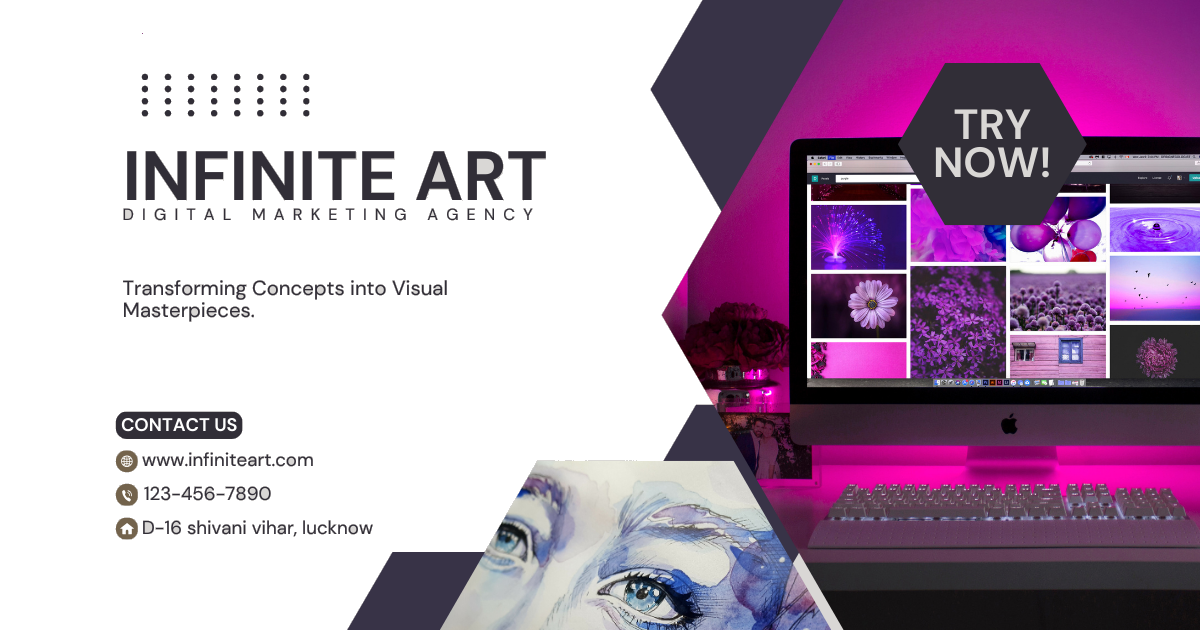
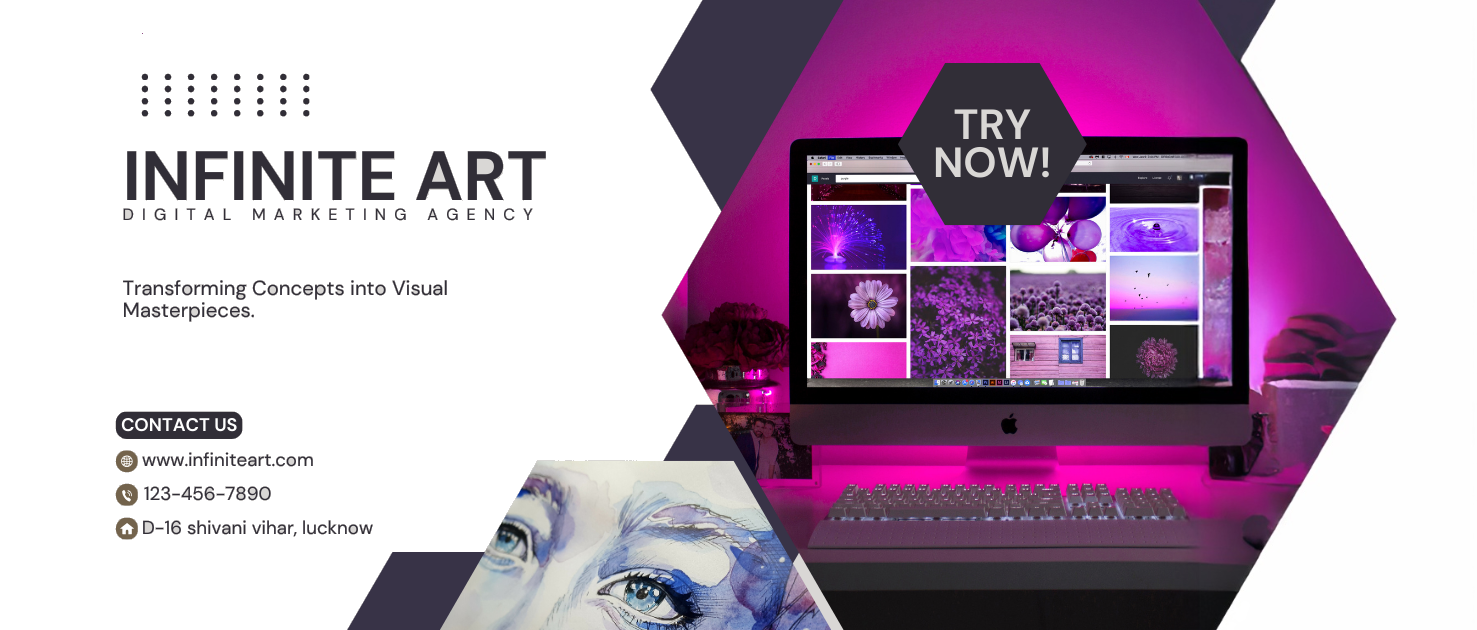
dropped the last project , this is fresh.

diff --git a/index.html b/index.html
@@ -35,33 +35,34 @@
                     
                     <div class="project-grid">
                         <div class="project-item">
-                            <img src="bag1.png" alt="Logo Design Project">
+                            <img src="loggo.png" alt="Logo Design Project" id="bagr">
                             <div class="project-overlay">
                                 <h3>Logo Design</h3>
                                 <p>Brand identity creation</p>
                             </div>
                         </div>
                         <div class="project-item">
-                            <img src="bag2.png" alt="Marketing Materials">
+                            <img src="ba2.png" alt="Marketing Materials">
                             <div class="project-overlay">
                                 <h3>Marketing Materials</h3>
                                 <p>Print designs for business promotion</p>
                             </div>
                         </div>
-                        <div class="project-item">
-                            <img src="bbbbb.png" alt="Digital Graphics">
+                        <div class="project-item" id="sociall">
+                            <img src="web.jpeg" alt="Digital Graphics" id="sociall">
                             <div class="project-overlay">
                                 <h3>Digital Graphics</h3>
                                 <p>Social media and web content</p>
                             </div>
                         </div>
-                        <div class="project-item">
+                       <!-- <div class="project-item">
                             <img src="bag2.webp" alt="UI/UX Design">
                             <div class="project-overlay">
                                 <h3>UI/UX Design</h3>
                                 <p>User interface and experience design</p>
                             </div>
-                        </div>
+                        </div> 
+                       -->
                     </div>
                 </div>
                 <div class="faq-container" id="faq">

diff --git a/style.css b/style.css
@@ -89,7 +89,7 @@ nav {
 
 .company-banner {
   width: 100%;
-  height: 300px;
+  height: 20vh;
   background: url('bag2.png');
   background-repeat: no-repeat;
   background-position: center;
@@ -116,7 +116,7 @@ main {
 }
 
 main section {
-  padding: 30px 0;
+  padding: 10vh 0;
   text-align: center;
   color: #383347;
   margin: 0 auto 30px auto;
@@ -506,4 +506,8 @@ footer {
   .faq-title {
     padding: 10px;
   }
+}
+
+#bagr {
+  background: #000000;
 }
